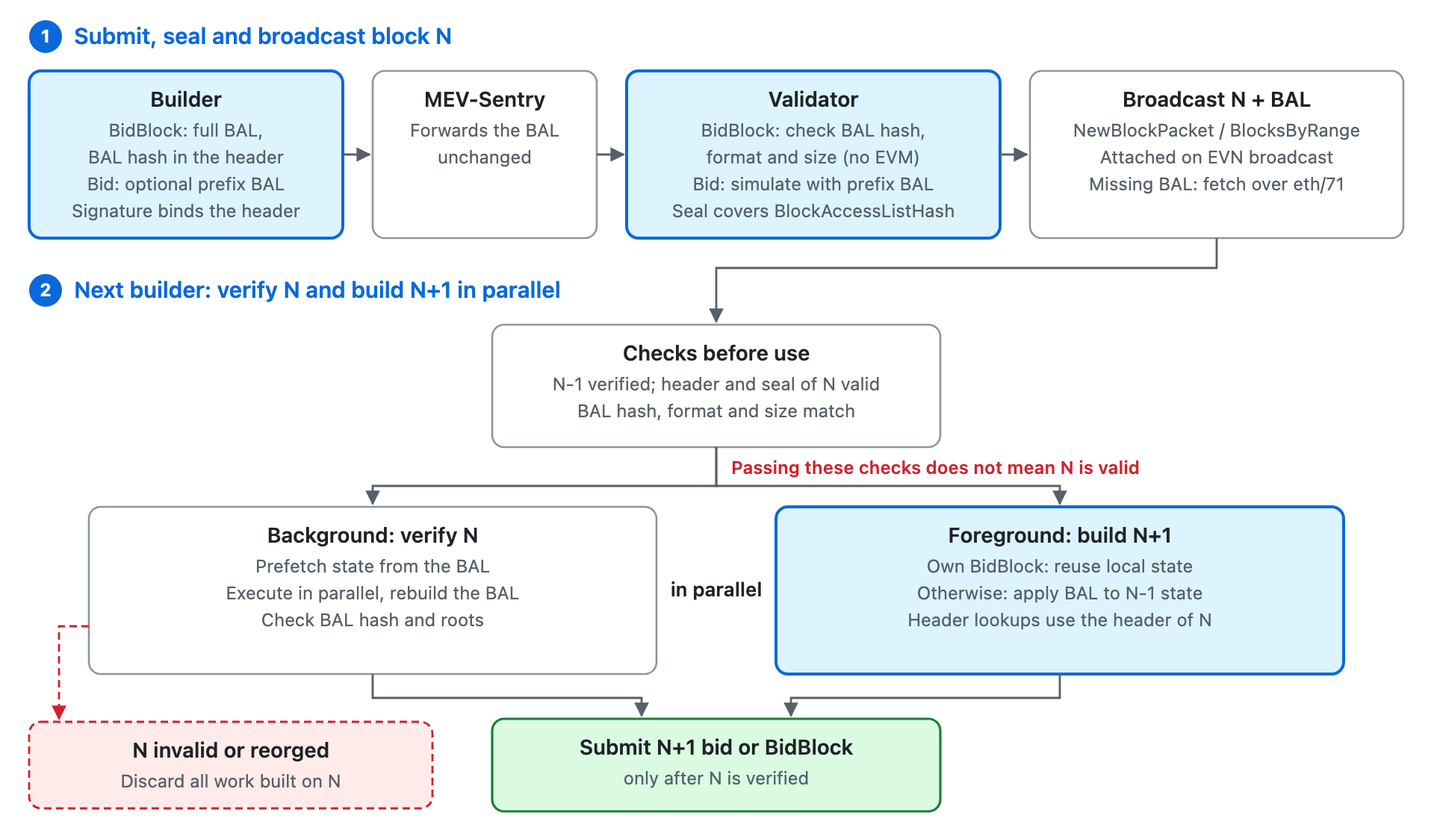
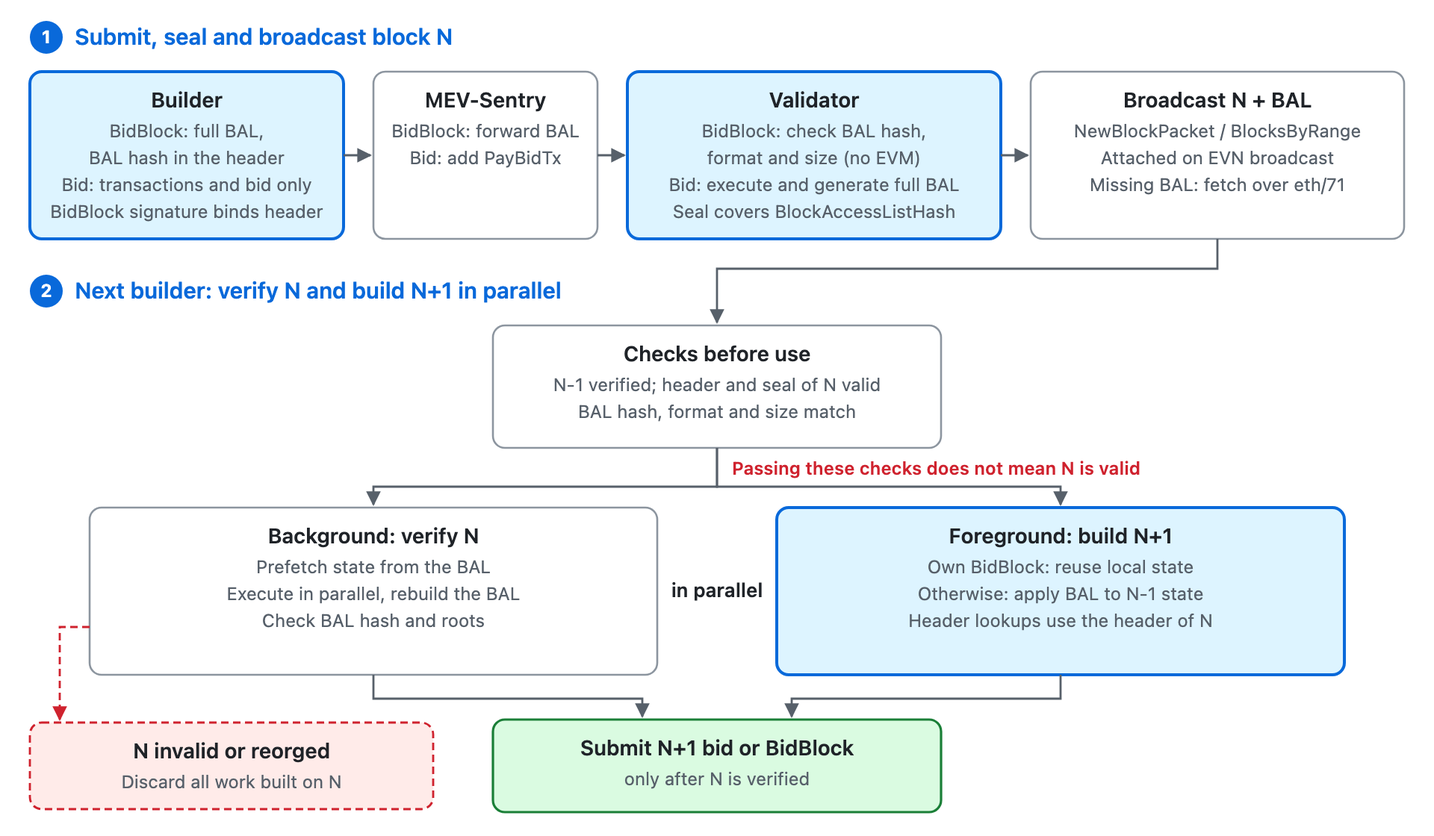
BEPs: extend bep-732 to local block production

diff --git a/BEPs/BEP-732.md b/BEPs/BEP-732.md
@@ -1,23 +1,25 @@
 ```
   BEP: 732
-  Title: Block Access Lists for MEV Block Production
+  Title: Enable Parallel Block Production with Block Access Lists
   Status: Draft
   Type: Standards
   Created: 2026-10-28
-  Description: Carry the Block Access List on the SendBid and SendBidBlock paths so that blocks are verified in parallel and builders can build the next block before the parent is imported.
+  Description: Produce and propagate Block Access Lists across local mining, SendBid and SendBidBlock to overlap parent verification with next-block construction and enable state prefetching and parallel block verification.
 ```
 
-# BEP-732: Block Access Lists for MEV Block Production
+# BEP-732: Enable Parallel Block Production with Block Access Lists
 
-- [BEP-732: Block Access Lists for MEV Block Production](#bep-732-block-access-lists-for-mev-block-production)
+- [BEP-732: Enable Parallel Block Production with Block Access Lists](#bep-732-enable-parallel-block-production-with-block-access-lists)
   - [1. Summary](#1-summary)
   - [2. Abstract](#2-abstract)
   - [3. Motivation](#3-motivation)
   - [4. Specification](#4-specification)
-    - [4.1 Builder](#41-builder)
-    - [4.2 MEV-Sentry](#42-mev-sentry)
-    - [4.3 Validator](#43-validator)
-    - [4.4 gRPC Transport](#44-grpc-transport)
+    - [4.1 Parent State and Verification](#41-parent-state-and-verification)
+    - [4.2 Local Mining](#42-local-mining)
+    - [4.3 Builder](#43-builder)
+    - [4.4 MEV-Sentry](#44-mev-sentry)
+    - [4.5 Validator](#45-validator)
+    - [4.6 gRPC Transport](#46-grpc-transport)
   - [5. Backward Compatibility](#5-backward-compatibility)
   - [6. Security](#6-security)
   - [7. Performance Analysis](#7-performance-analysis)
@@ -25,41 +27,88 @@
 
 ## 1. Summary
 
-On BSC, most blocks are produced from builder submissions on two paths: a Bid (`SendBid`), which the validator simulates before sealing, and a BidBlock (`SendBidBlock`, [BEP-675](./BEP-675.md)), which the validator seals without simulation. On both paths the builder must import the parent block before building the next one, and on the Bid path the validator also simulates the bid. Each of these is a full EVM pass that grows linearly with the gas limit.
+BSC supports three block-production paths: local mining by the validator, a Bid (`SendBid`) that the validator simulates and completes, and a BidBlock (`SendBidBlock`, [BEP-675](./BEP-675.md)) that the validator seals without simulation.
 
-This BEP introduces a Block Access List (BAL, [EIP-7928](https://eips.ethereum.org/EIPS/eip-7928)) on both paths. The party that executes the block produces it — the builder for a BidBlock, the validator for a Bid — and the validator binds it to the sealed block and propagates it. The BAL lets every node prefetch the state of a block and verify it in parallel, lets the validator simulate a bid in parallel, and lets builders build the next block from the parent's BAL instead of waiting for the parent to be imported.
+This BEP introduces Block Access Lists (BALs, [EIP-7928](https://eips.ethereum.org/EIPS/eip-7928)) across all three paths. A producer can prepare a candidate parent state from the parent's BAL and start constructing the next block while fully verifying the parent. For local mining, this removes a wait at validator handover, when the incoming validator must import the outgoing validator's block. During consecutive locally executed blocks, the validator already has the parent execution result and does not gain another saved parent-execution pass from this mechanism.
+
+BALs also enable state prefetching and parallel verification of received blocks. The complete BAL is generated by the party that executes the final block, and the validator includes its commitment in the Parlia-signed header and propagates it with the block:
+
+| Path | Complete BAL generated by |
+| --- | --- |
+| Local mining | The validator executing its locally selected transactions and finalizing the block |
+| Bid | The validator simulating the bid, adding any further transactions and finalizing the block |
+| BidBlock | The builder executing the complete submitted block, including unsigned system transactions |
 
 ## 2. Abstract
 
-The critical path within a single block interval is:
+When a producer needs to import a received parent, the existing production paths are:
 
+- **Local mining (validator handover):** Import parent block → Validator constructs block locally → Block produced
 - **Bid:** Import parent block → Builder constructs bid → Validator simulates bid → Block produced
 - **BidBlock:** Import parent block → Builder constructs BidBlock → Block produced
 
-A BAL records every account and storage slot a block touches and the value of every change after each transaction. With the BAL of a block, a node can execute its transactions in parallel and prefetch their state, and a builder can derive the post-state of the block without executing it. This BEP produces the BAL on both paths and has the validator bind it to the sealed block and propagate it:
+A BAL records every account and storage slot a block touches and its post-transaction state changes. Its final values can be applied to a verified base state to prepare a candidate parent state without waiting for parent execution. The resulting paths are:
 
-- **Bid:** Apply parent BAL → Builder constructs bid (parent verified in parallel) → Validator simulates bid in parallel → Block produced
-- **BidBlock:** Apply parent BAL → Builder constructs BidBlock (parent verified in parallel) → Block produced
+- **Local mining (validator handover):** Prepare candidate parent state → Validator constructs block locally while verifying parent → Parent verification gate → Block produced
+- **Bid:** Prepare candidate parent state → Builder constructs bid while verifying parent → Parent verification gate → Validator simulates bid and records BAL → Block produced
+- **BidBlock:** Prepare candidate parent state → Builder constructs BidBlock while verifying parent → Parent verification gate → Block produced
+
+The gate requires successful local parent verification before a builder submits a bid or BidBlock, and successful parent import before a validator seals a locally constructed block or accepts a builder submission. Verification failure or a reorganisation cancels the dependent construction. A matching local execution state may be reused instead of applying the BAL; consecutive local mining already has this state and does not need the handover import step.
+
+Parallel transaction verification within the parent and overlapping parent verification with next-block construction are separate optimizations. The overlap does not require parallel parent execution: the parent can still be verified sequentially in the background. This BEP does not use the parent's BAL to parallelize the unknown transactions of the next block, and `SendBid` simulation remains sequential.
 
 ## 3. Motivation
 
-BEP-675 raised the practical gas limit by removing validator-side simulation, but only for BidBlocks. The Bid path coexists permanently and serves builders without BidBlock permission, so its critical path still contains the validator's simulation. On both paths, the critical path also contains parent import, whose cost scales linearly with the gas limit and which the builder cannot shorten. Parent import limits validators as well: a validator producing consecutive blocks accepts submissions for the next block only after importing its own previous block, and every sealed block is re-executed after broadcast, which risks a verification backlog at higher gas limits.
+Waiting for a received parent to finish executing reduces the time available to construct the next block. This affects builders on both MEV paths and local mining at validator handover: the incoming validator must obtain the outgoing validator's post-state before selecting and executing its own transactions. A parent BAL makes a candidate post-state available before full verification completes, allowing these tasks to overlap.
 
-A BAL removes parent import from the builder's critical path and turns block verification and bid simulation into parallel execution. This BEP specifies how the BAL is produced, bound and propagated on both paths, so that the time previously spent waiting for execution is available for building, making room for a substantially higher gas limit.
+The paths also have different execution costs. BEP-675 removes pre-seal validator simulation for BidBlocks, but the producing validator still executes and verifies each sealed BidBlock after broadcast. This can delay acceptance of submissions for its next block and create a verification backlog at higher gas limits. `SendBid` retains validator simulation. In contrast, local mining and `SendBid` already execute the final block before sealing and reuse that execution result for insertion; they do not require a second full execution after broadcast.
+
+Consecutive locally executed blocks therefore do not have the same parent-import bottleneck as a validator handover. Their producer already has the parent state, so this BEP does not count another eliminated parent-execution pass for them. A parent merely sealed from an external BidBlock is different: its BEP-675 asynchronous verification still has to complete, even if the validator remains the same.
+
+Higher gas limits increase execution, verification and propagation costs. BAL prefetching and parallel verification can shorten received-block processing, while overlapping parent verification with construction enlarges the building window. BAL recording and transport also add costs, so the benefits must be evaluated for each production path. On the Bid path, the validator records the BAL during its existing sequential execution; this BEP does not accelerate bid simulation with a BAL.
 
 ## 4. Specification
 
 This BEP activates with the BSC hard fork that adopts EIP-7928. From that fork, every block header carries `BlockAccessListHash = keccak256(rlp(BAL))`, and the BAL encoding, validation rules, size constraint and block access index assignment follow EIP-7928 as adopted by BSC, including the indices of Parlia system transactions.
 
+The diagram illustrates the MEV paths; local mining is specified in [Section 4.2](#42-local-mining).
+
 ![Flow of the BAL on the MEV path](./assets/bep-732/flow.png)
 
-### 4.1 Builder
+### 4.1 Parent State and Verification
+
+The following rules apply to early construction by both a local validator and an external builder. Let `N` be the received parent and `N+1` the block being constructed.
+
+1. **Check the parent and BAL.** The state of `N-1` must be available and verified. Check the header and Parlia seal of `N` against its parent branch. Before using a received BAL, check its canonical encoding, ordering, indices and size, and require `keccak256(rlp(BAL))` to match `N.BlockAccessListHash`. Commitment verification alone does not establish execution correctness.
+2. **Prepare an isolated candidate state.** Apply the final post-values of the BAL to the state of `N-1`, or reuse a local execution result that matches the final parent. The BidBlock-specific matching rules are in [Section 4.3](#43-builder). Do not commit this candidate state, publish it as the canonical head or advance the canonical transaction pool. Select transactions against the candidate state and exclude transactions already included in `N`.
+3. **Use the candidate parent context.** Construct `N+1` using the received header and branch of `N`, including the required ancestor headers and Parlia context. Header-dependent execution, including `BLOCKHASH(N)`, must resolve against that branch even though `N` is not yet imported; reading only the old canonical head is insufficient.
+4. **Verify the parent while constructing the child.** If `N` is not yet fully verified, execute and validate it independently, using BAL-driven prefetching of accounts, code and storage. Its transactions may be verified in parallel, but sequential parent verification is also compatible with early construction. Check the rebuilt BAL, state root, receipts and other existing block-validity conditions. Any state derived from the BAL must agree with the verified result.
+5. **Enforce the verification gate.** A builder must not submit a bid or BidBlock until its local verification of `N` succeeds. A validator must not seal a locally constructed child until `N` has been successfully imported and remains the eligible parent, and continues to accept builder submissions only for imported parents. Failed verification, a derived-state-root mismatch or a reorganisation cancels all dependent work and discards its candidate state.
+
+If a BAL is missing or fails the attachment checks, fetch it or execute the parent normally and rebuild the BAL to check the header commitment. Without a usable BAL or a matching local execution state, construction waits for parent execution. Missing data alone does not make a block invalid or trigger BEP-675 revocation. An execution-confirmed mismatch with the committed BAL makes the block invalid.
+
+### 4.2 Local Mining
+
+**Validator handover.** When the parent was produced by another validator and its import is still pending, the incoming validator may use [Section 4.1](#41-parent-state-and-verification) to start constructing its first local block before parent import completes. The parent verification task and the local miner use separate mutable state. Mining triggers and transaction selection must support this candidate parent without advancing the canonical head, and the resulting candidate cannot be sealed until the parent verification gate passes.
+
+**Consecutive local blocks.** When the validator continues producing blocks whose parent it executed locally, it reuses the parent execution result through the existing insertion path. It does not apply the parent BAL or replay the parent merely to start the next block. The parent-import overlap described above concerns validator handover, not this consecutive local-mining case. A preceding externally built BidBlock remains subject to the BEP-675 verification rules.
+
+**Record, finalize and seal.** The validator generates a complete BAL during the normal execution of its local candidate:
+
+- record block-begin protocol operations, the selected user transactions, Parlia system transactions and remaining protocol state changes under the BSC adoption of EIP-7928;
+- assign transaction indices from their actual positions in the final block; keep the BAL and execution state consistent when reverting failed inclusion attempts, dropping transactions or replacing a candidate;
+- complete BAL recording during finalization, set `BlockAccessListHash = keccak256(rlp(BAL))` in the final header, and cover it with the Parlia seal;
+- reuse the executed state and receipts for normal block insertion, then propagate the complete BAL with the sealed block through the broadcast rules in [Section 4.5](#45-validator). No BidBlock submission or additional full execution is required.
+
+**Prefetching during mining.** Existing `PrefetchMining` remains a cache-warming optimization. Access locations from an earlier candidate or parent BAL may be used as bounded prefetch hints, but they do not determine the next block's accesses or final BAL. Prefetch trial execution skips nonce checks and discards its state changes; its results must not be substituted for formal execution or the BAL recorded from the selected candidate. This optional cache optimization is separate from the parent-import overlap at validator handover.
+
+### 4.3 Builder
 
 The builder constructs and submits a BidBlock as specified in BEP-675, with the following changes:
 
 1. **Record the BAL** — while executing user transactions and the unsigned system transactions, record the BAL as EIP-7928 specifies. Transactions and bundles that the builder tries and then drops are removed together with their BAL entries. Signing does not affect EVM state changes, and the BAL contains no transaction hashes, so the BAL recorded with unsigned system transactions remains valid after the validator signs them.
 2. **Commit the BAL** — set `BlockAccessListHash` in the header to `keccak256(rlp(BAL))`.
-3. **Submit the BAL** — attach the BAL to `BidBlockArgs`, or to the gRPC request ([Section 4.4](#44-grpc-transport)).
+3. **Submit the BAL** — attach the BAL to `BidBlockArgs`, or to the gRPC request ([Section 4.6](#46-grpc-transport)).
 
 **`BidBlockArgs` data structure:**
 
@@ -74,44 +123,19 @@ type BidBlockArgs struct {
 - **`Signature`** — unchanged: the builder signs `keccak256(rlp(header))` of the header it submits. The header carries `BlockAccessListHash`, so the BAL is bound to the BidBlock without a separate signature.
 - **`BlockAccessList`** — required for every BidBlock from the activation fork.
 
-**Building on an unimported parent.** When the BAL of block `N` arrives with the block, the builder may start building `N+1` before `N` is imported. If `N` is its own BidBlock, it reuses the post-state of its own execution after confirming that `N` matches it by `ParentHash`, `StateRoot` and the execution results; `TxHash` and the block hash are not used for matching, because the validator signs system transactions and rewrites `Extra`. Otherwise, it applies the final post-values of the BAL of `N` to the state of `N-1`, once the header and seal of `N` and its BAL have passed the checks of [Section 4.3](#43-validator). Building `N+1` also reads the header of `N`: for example, `BLOCKHASH(N-1)` is the `ParentHash` of `N`, and the Parlia validator set is derived from the headers up to `N`. Since `N` is not yet imported, the builder takes this information from the received header of `N`; otherwise the execution of `N+1` would be wrong. The builder then:
+**Building on an unimported parent.** The builder follows [Section 4.1](#41-parent-state-and-verification). If `N` is its own BidBlock, it may reuse the post-state of its own execution after confirming that `N` matches it by `ParentHash`, `StateRoot` and the execution results; `TxHash` and the block hash are not used for matching, because the validator signs system transactions and rewrites `Extra`. This reuse does not waive validation of the final sealed parent or the submission gate. Otherwise, the builder derives the candidate parent state from the final block's BAL.
 
-- verifies `N` by full execution while building `N+1`, prefetching the state declared by the BAL of `N` and executing its transactions in parallel, and **does not submit** a bid or BidBlock with parent `N` until this verification succeeds;
-- cancels all work derived from `N` if verification fails, the derived state root does not match `header.Root`, or `N` is reorganised out;
-- keeps the derived state isolated: it is not committed, not published as the chain head, and not used to advance the transaction pool, and the transactions of `N` are excluded from `N+1` by the builder itself.
+**SendBid.** The builder submits candidate transactions and a bid as today, without a BAL. The existing `RawBid`, `BidArgs` and bid signature are unchanged. The validator records and produces the complete BAL while simulating and finalizing the selected bid ([Section 4.5](#45-validator)).
 
-**SendBid.** On the legacy path, the builder submits candidate transactions and a bid as today, and may attach a **prefix BAL**:
+Because the validator adds transactions, a builder cannot reuse its own execution state for a block built from its bid, and builds on such a block through the final block's BAL. It can still use the parent block's BAL to start building its bid before parent import completes, subject to the verification and submission rules above.
 
-- it covers block access index 0 and the bid transactions in submission order, recorded on the same parent and header context the validator will simulate with; it does not cover transactions the validator merges, `PayBidTx` or system transactions;
-- the BAL of the final block is produced by the validator ([Section 4.3](#43-validator)). Because the validator adds transactions, a builder cannot reuse its own execution state for a block built from its bid, and builds on such a block through its BAL.
+### 4.4 MEV-Sentry
 
-**`RawBid` and `BidArgs` data structures:**
+MEV-Sentry forwards the BAL with the BidBlock without additional processing. On the gRPC path it forwards the BAL as raw bytes, like the BidBlock RLP, without re-encoding. On the `SendBid` path it forwards the bid and attaches `PayBidTx` as today; no BAL is transmitted on this path.
 
-```go
-type RawBid struct {
-    // ... existing fields, unchanged
-    BlockAccessListHash *common.Hash `json:"blockAccessListHash" rlp:"optional"` // keccak256 of the prefix BAL
-}
+### 4.5 Validator
 
-type BidArgs struct {
-    RawBid          *RawBid
-    BlockAccessList hexutil.Bytes `json:"blockAccessList"` // EIP-7928 RLP-encoded prefix BAL
-    Signature       hexutil.Bytes `json:"signature"`
-    // ... PayBidTx fields added by MEV-Sentry, unchanged
-}
-```
-
-- **`Signature`** — unchanged: the builder signs `keccak256(rlp(RawBid))`. When a prefix BAL is attached, `RawBid` carries its hash, so the signature binds the prefix BAL.
-- **Not provided** — `BlockAccessListHash` is absent and `BlockAccessList` is empty. The RLP encoding of `RawBid`, and therefore the signature, is identical to that of a bid without this BEP.
-- **Provided** — both fields are set and `keccak256(BlockAccessList)` equals `BlockAccessListHash`. A prefix BAL with no entries is the RLP empty list (`0xc0`) and counts as provided. A bid with only one of the two fields set, or with a hash mismatch, is rejected.
-
-### 4.2 MEV-Sentry
-
-MEV-Sentry forwards the BAL with the BidBlock without additional processing. On the gRPC path it forwards the BAL as raw bytes, like the BidBlock RLP, without re-encoding. On the `SendBid` path it forwards the prefix BAL unchanged and attaches `PayBidTx` as today.
-
-### 4.3 Validator
-
-The validator processes BidBlocks and bids in the following stages and selects the best one as specified in BEP-675. Where the two paths differ, each stage describes both.
+The validator processes BidBlocks and bids in the following stages and selects the best one as specified in BEP-675. Where the two MEV paths differ, each stage describes both. Local mining follows [Section 4.2](#42-local-mining) and shares the Parlia commitment and broadcast rules below; the asynchronous import stage applies specifically to BidBlocks.
 
 **1. Pre-seal verification**
 
@@ -123,18 +147,20 @@ The validator processes BidBlocks and bids in the following stages and selects t
 
 These checks establish that the BAL is the one committed by the builder-signed header and is within resource bounds; they do not establish that it is correct. Any failure causes immediate rejection. Once a BidBlock passes, the validator may start a bounded prefetch of the state the BAL declares.
 
-*SendBid.* The validator simulates the bid and produces the complete BAL of the final block. The final block contains, in order, the block-begin protocol operations (block access index 0), the `k` bid transactions, the transactions merged from the validator's mempool, `PayBidTx` and the system transactions; each transaction takes the block access index of its position in the transaction list. The validator:
+*SendBid.* The validator simulates the bid as today, recording the BAL throughout the existing sequential execution:
 
-- checks the prefix BAL, if provided: its hash matches `BlockAccessListHash` in the signed `RawBid`, its size and format are valid, and its indices do not exceed `k`;
-- prefetches the state the prefix BAL declares and executes index 0 and the bid transactions in parallel; before executing anything else, it compares the BAL rebuilt for indices `0..k` with the prefix BAL, and a mismatch fails the bid. Without a prefix BAL, these transactions are executed sequentially;
-- continuing from the resulting state, executes the merged transactions, `PayBidTx` and the system transactions sequentially, recording their entries at their own indices. The complete BAL consists of these entries and those for indices `0..k`.
+- record block-begin protocol operations at block access index 0, then the bid transactions, any transactions merged from the validator's mempool, and `PayBidTx` in execution order;
+- assign each transaction the block access index of its position in the final transaction list;
+- retain the recorded BAL with the candidate execution state selected for sealing, and continue recording during finalization as described below.
+
+No builder-supplied BAL or prefix comparison is required. Recording the BAL adds no extra execution pass.
 
 **2. Finalize, assemble and seal**
 
 As on each path today, with one change to the seal: from the activation fork, the header fields signed by the Parlia seal include `BlockAccessListHash`. The sealed BAL therefore cannot be replaced without invalidating the seal.
 
 - *BidBlock* — the BAL is used as submitted: signing the system transactions does not change any state access, so the BAL and `BlockAccessListHash` stay unchanged.
-- *SendBid* — the validator sets `BlockAccessListHash = keccak256(rlp(BAL))` of the complete BAL in the header it assembles.
+- *SendBid* — the validator reuses the selected simulation state and continues recording while executing the system transactions and any remaining protocol state changes during finalization, using the indices defined by the BSC adoption of EIP-7928. It then sets `BlockAccessListHash = keccak256(rlp(BAL))` of the complete BAL in the header it assembles. The existing execution result is reused for block insertion; generating the BAL does not require replaying the block.
 
 **3. Broadcast**
 
@@ -156,9 +182,9 @@ After broadcasting a BidBlock, the validator imports the block as in BEP-675, us
 
 Any mismatch fails the import and triggers the BEP-675 permission revocation.
 
-### 4.4 gRPC Transport
+### 4.6 gRPC Transport
 
-gRPC carries only `SendBidBlock`; `SendBid` and the other MEV APIs remain on JSON-RPC, where the prefix BAL travels with the bid. Only `BidBlockRequest` therefore changes: the BAL is a separate `bytes` field, carrying its EIP-7928 RLP encoding unchanged:
+gRPC carries only `SendBidBlock`; `SendBid` and the other MEV APIs remain on JSON-RPC with their existing request formats. Only `BidBlockRequest` therefore changes: the BAL is a separate `bytes` field, carrying its EIP-7928 RLP encoding unchanged:
 
 ```proto
 message BidBlockRequest {
@@ -179,29 +205,54 @@ message BidBlockRequest {
 
 This BEP requires a hard fork: it activates with the BSC adoption of EIP-7928 and changes the header encoding signed by the Parlia seal from that fork. Blocks before the fork are unaffected.
 
-The `SendBid` and `SendBidBlock` paths continue to coexist as specified in BEP-675. The `BidBlockArgs` field, the gRPC field and the block message fields are additive, and nodes negotiate support for the block message field during the bsc protocol handshake.
+Local mining remains available alongside the `SendBid` and `SendBidBlock` paths, which continue to coexist as specified in BEP-675. All three produce a complete BAL from activation. The `SendBid` request and signature are unchanged. The `BidBlockArgs` field, the gRPC field and the block message fields are additive, and nodes negotiate support for the block message field during the bsc protocol handshake.
 
 ## 6. Security
 
 Each node accepts a block only if its own execution rebuilds the BAL committed in the header and passes the existing checks; with a missing or unusable BAL, the node executes the block sequentially.
 
-- **Replacing the BAL** — before sealing, the BAL is bound by the builder-signed header; after sealing, by the Parlia seal. A replaced BAL fails the hash check and is discarded before execution.
-- **Incorrect BAL** — a BAL that matches the header but not the execution makes the block invalid. The validator detects it during asynchronous import and revokes the builder as in BEP-675. The worst case remains one bad BidBlock per builder per revoke window.
+- **Replacing the BAL** — on the BidBlock path, the submitted BAL is bound by the builder-signed header. On local mining and Bid paths, the validator generates the BAL locally. After sealing, the BAL on all three paths is bound by the Parlia seal. A replaced BAL fails the hash check and is discarded before execution.
+- **Incorrect BAL** — a BAL that matches the header but not the execution makes the block invalid on every path. For a BidBlock, the producing validator detects it during asynchronous import and revokes the builder as in BEP-675. The worst case remains one bad BidBlock per builder per revoke window; builder permission revocation does not apply to local mining.
 - **Withholding** — a BidBlock without a BAL is rejected before sealing.
-- **Building on an invalid parent** — a builder submits a bid or BidBlock only after verifying its parent, and a validator accepts submissions only for parents it has imported.
+- **Building on an invalid parent** — a builder submits a bid or BidBlock only after verifying its parent, and a validator accepts submissions and seals locally constructed children only after the parent is imported and remains eligible. Candidate state is isolated, and dependent work is cancelled on failed validation or reorganisation.
 - **Resource use** — the BAL is size-bounded by EIP-7928 and checked with one hash before use, and pre-seal prefetching is bounded and does not delay sealing.
 - **Early exposure** — the BAL leaves the validator only after sealing, together with the block that reveals the same state changes.
 
 ## 7. Performance Analysis
 
-Using the model of BEP-675, let `G` denote the gas limit in Mgas and `R` the EVM throughput; one pass over `G` takes `G/R` time. Let `s` denote the speedup of parallel execution against a BAL, and `t_apply` the time to check the BAL and derive the parent post-state from it.
+The benefits differ across the three production paths:
+
+| Path | Parent-verification overlap | Remaining production work |
+| --- | --- | --- |
+| Local mining | At validator handover, importing the outgoing validator's block overlaps local construction | Execute the locally selected transactions and finalize the block; consecutive locally executed parents already have reusable state |
+| Bid | Builder construction overlaps verification of a received parent | Validator simulation remains sequential and produces the complete BAL |
+| BidBlock | Builder construction overlaps verification of a received parent | Validator seals without simulation, then verifies the BidBlock asynchronously |
+
+All three generate BALs that receiving nodes can use for prefetching and parallel verification. These benefits do not imply that transactions in a newly selected candidate can be executed in parallel using only its parent's BAL.
+
+**BidBlock.**
+
+For the BidBlock path, using the model of BEP-675, let `G` denote the gas limit in Mgas and `R` the EVM throughput; one pass over `G` takes `G/R` time. Let `s` denote the speedup of parallel execution against a BAL, and `t_apply` the time to check the BAL and derive the parent post-state from it.
 
 - **BEP-675** — 2 EVM passes on the critical path (parent import + builder execution):
   `2·(G/R) + overhead = block_interval`
 - **This BEP** — the builder starts after `t_apply`, and parent verification `G/(s·R)` runs in parallel with building:
   `max(t_apply + G/R, G/(s·R)) + overhead = block_interval`
 
-When parallel verification finishes within the building time, the critical path contains a single EVM pass, and solving for `G` yields up to roughly twice the BEP-675 gas-limit ceiling, reduced by `t_apply` and by contention between verification and building. Equivalently, the interval during which builders execute and pack transactions is no longer shared with parent import. The BAL also shortens the asynchronous verification of every sealed block by the factor `s`, and adds to the BidBlock payload, which favors the binary gRPC transport.
+When parallel verification finishes within the building time, the critical path contains a single EVM pass, and solving for `G` yields up to roughly twice the BEP-675 gas-limit ceiling, reduced by `t_apply` and by contention between verification and building. Equivalently, the interval during which builders execute and pack transactions is no longer shared with parent import. The BAL also shortens the asynchronous verification of sealed BidBlocks by the factor `s`, and adds to the BidBlock payload, which favors the binary gRPC transport.
+
+On the SendBid path, validator simulation remains sequential and adds its own latency to the critical path, so the single-pass ceiling above does not apply. This path still benefits from overlapping parent verification with builder construction, and its final BAL enables parallel verification by receiving nodes and early construction of the next block. BAL recording and encoding have overhead, but require no extra EVM pass.
+
+**Local mining at validator handover.** Let `T_import` be the time to import the received parent without BAL acceleration, `T_verify` the time to verify and import it with BAL support, and `T_build` the time to execute and finalize the next local candidate. For the same candidate workload, the relevant completion times are:
+
+- **Before:** `T_import + T_build + overhead`
+- **With BAL:** `max(T_verify, t_apply + T_build) + overhead_BAL`
+
+The second expression includes the parent verification gate: local sealing waits for both parent import and candidate construction. `overhead_BAL` includes the remaining BAL recording, encoding and propagation costs. If a fixed production deadline is used instead, starting after `t_apply` rather than `T_import` provides additional packing time when `t_apply < T_import`. Actual gains depend on parent verification finishing in time and on CPU, memory and storage contention between the two tasks.
+
+This handover model concerns the first locally constructed block after a validator change, when parent import is still pending. It does not apply to subsequent consecutive locally executed blocks: there is no separate full parent-execution pass to remove, and the producer reuses its parent state. The new BAL still helps receiving nodes, including the next validator at handover. Any benefit from mining-time prefetch hints must be measured separately; the BidBlock gas-limit estimate above must not be applied to every block in a consecutive local-mining run.
+
+Overlapping parent verification with construction and accelerating parent verification internally are independent improvements. The overlap can be measured with sequential parent verification first; enabling BAL parallel verification can then reduce `T_verify`, but the two gains are not additive once construction becomes the limiting task.
 
 ## 8. License
 
